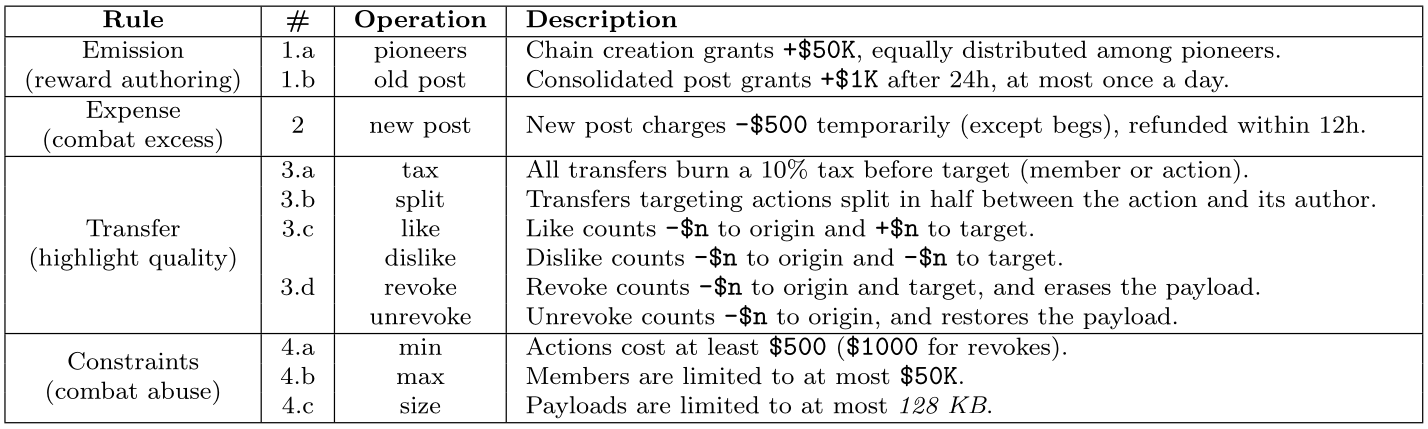
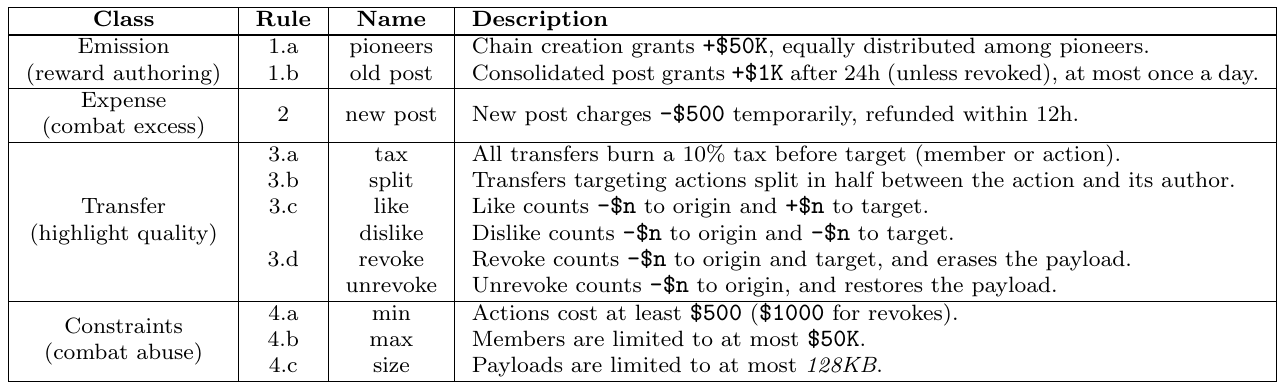
. doc : reps : refactor

Changed region(s): [[0.0, 0.0, 1.0, 1.0], [0.0, 0.4936, 0.1869, 0.6478], [0.1869, 0.8638, 0.2492, 0.8946]]

diff --git a/.claude/plans/261002-docs.md b/.claude/plans/261002-docs.md
@@ -9,22 +9,21 @@
 
 # Images
 
-- doc/hard.dia, doc/hard.png: replace by paper imgs/hard.dia
+- DONE doc/hard.dia, doc/hard.png: paper imgs/hard.dia
     - settled/unsettled, lose/win/ok arrows
-- doc/rules.png: regenerate without "(except begs)"
-    - after 260923-beg.md lands
+- DONE doc/rules.png: rendered from paper Table 2
+    - "(unless revoked)", no "(except begs)"
+    - assumes 260923-beg.md implemented
+- DONE doc/general.png: removed, redundant with rules.png
 
 # guide.md
 
-- ln 511-518: "freeze/frozen" -> "settle/settled"
-- ln 513-514: "newest timestamp up to each action"
-    -> "in the consensus order"
-- ln 290-296: one sentence on the 24h reward
-    - 1000 reps, at most once a day
-- ln 663-668: one sentence on revoke cost
-    - at least 1000 reps, drains post and author
-- ln 681: typo "wether"
-- ln 684-685: self-revoke "no other member can undo"
+- DONE "freeze/frozen" -> "settle/settled"
+- DONE "newest timestamp ... in the consensus order"
+- DONE one sentence on the 24h reward
+- DONE one sentence on revoke cost
+- DONE typo "wether"
+- DONE self-revoke "no other member can undo"
 - ln 363-380: `reps member dave` -> 1300
     - after 260923-beg.md lands
 
@@ -36,5 +35,4 @@
 
 # Won't do
 
-- general.png: keep as is
 - new sections: proof-of-authoring, chain time, double-spends

diff --git a/doc/reps.md b/doc/reps.md
@@ -25,8 +25,6 @@ chains.
 The unit of reputation is known as ***rep*** and can be created, spent, and
 transferred.
 
-<img src="general.png" width="500" align="right">
-
 Members spend reps to post and rate content in the forums:
     a ***post*** temporarily penalizes its author until it consolidates and counts positively;
     a ***like*** is a positive feedback to distinguish good content amid excess;
